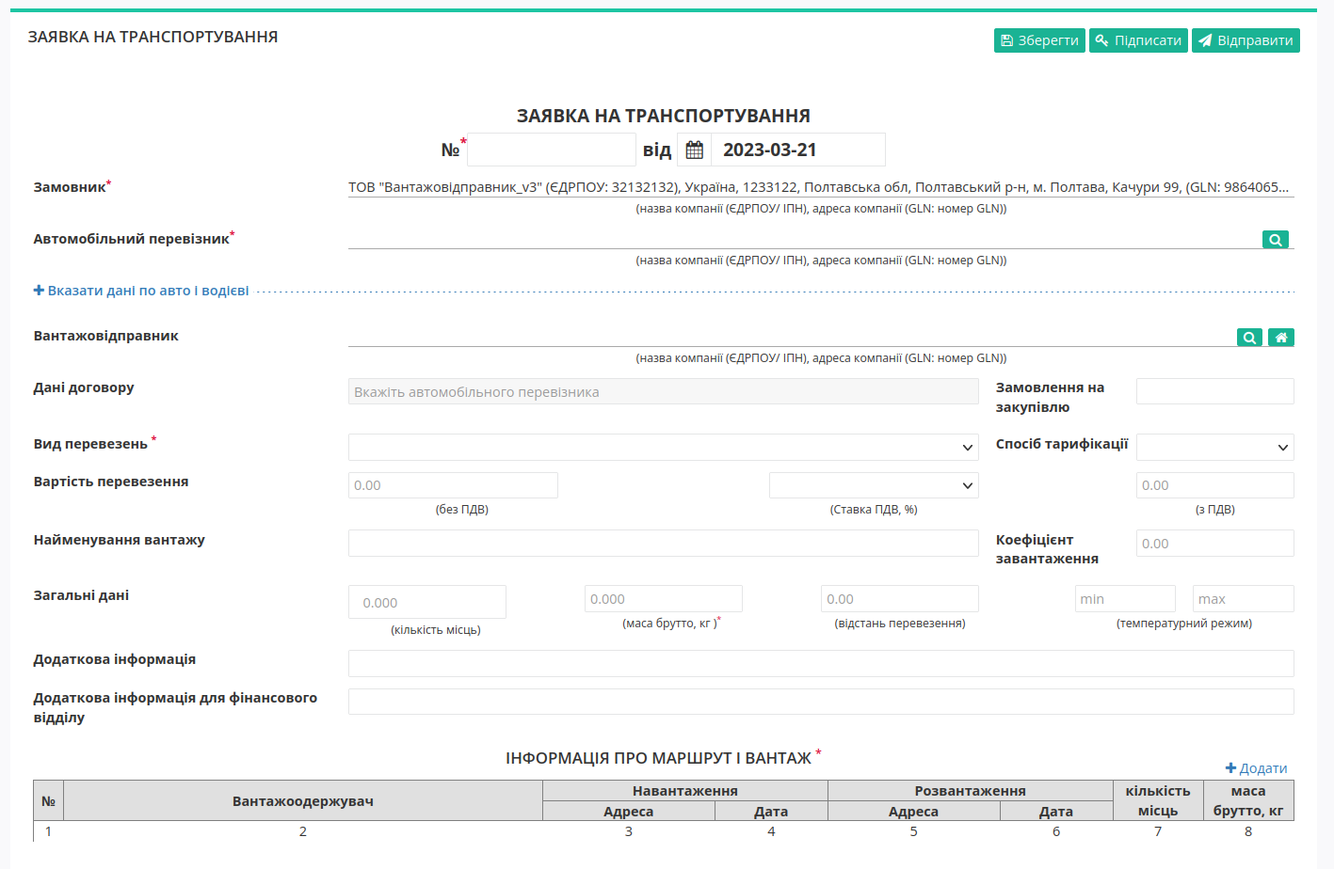
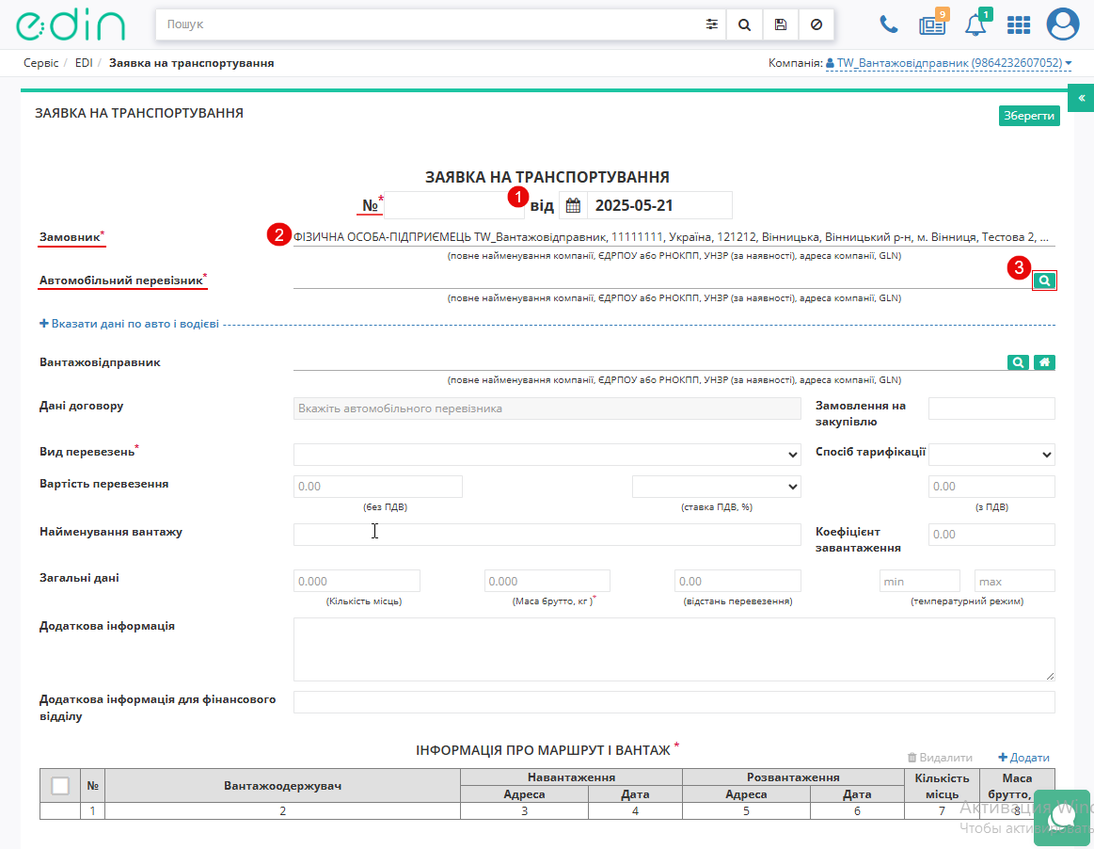
update_sertuficat_AS2

diff --git a/docs/ETTN_3_0/Create_Proposal_V2.rst b/docs/ETTN_3_0/Create_Proposal_V2.rst
@@ -1,0 +1,323 @@
+Створення та відправка "Заявки на транспортування" з "нуля" (ручне заповнення)
+###################################################################################################
+
+.. сюда закину немного картинок для текста + юзаєм спільні зображення
+
+.. |лупа| image:: /_constant/icons/magnifying_glass.png
+
+.. |будинок| image:: /_constant/icons/house.png
+
+.. |drag_dots| image:: /_constant/icons/drag_dots.png
+
+.. |trash| image:: /_constant/icons/trash.png
+
+.. |delete| image:: /_constant/icons/delete.png
+
+.. role:: red
+
+.. role:: green
+
+.. role:: orange
+
+.. role:: underline
+
+.. contents:: Зміст:
+   :depth: 3
+
+---------
+
+Ініціатором документообігу "Заявка на транспортування" -> "Підтвердженням заявки на транспортування" виступає користувач з роллю **"Замовник"** (при роботі з транспортними документами передбачені 4 основні ролі учасників документообігу: **"Замовник"**, **"Вантажовідправник"**, **"Перевізник"**, **"Вантажоотримувач"**). 
+Обмін документами здійснюється між **"Замовником"** та **"Перевізником"**:
+
+:green:`"Замовник" -> "Перевізник"`
+
+.. hint::
+   При роботі з "Заявкою на транспортування" можливо організувати:
+
+   1. Документообіг, в якому "Заявка на транспортування" пропонує перевезення між трьома компаніями-учасниками (1 **"Замовник"** - 1 **"Перевізник"** - 1 **"Вантажоотримувач"**) з пункту навантаження в пункт розвантаження (дві адреси).
+   2. Документообіг, в якому "Заявка на транспортування" пропонує перевезення одразу з кількома **"Вантажоотримувачами"** (1 **"Замовник"** - 1 **"Перевізник"** - N **"Вантажоотримувачів"**) з відповідною кількістю пунктів навантаження та розвантаження (кілька адрес).
+
+**1 Створення "Заявки на транспортування" Замовником**
+================================================================================================
+
+Для створення "Заявки на транспортування" в сервісі **"EDI Network"** **"Замовнику"** необхідно виконати наступні дії: 
+
+1. Натиснути на кнопку **"Створити"**.
+2. У модальному вікні **"Створити документ"** оберіть документ **"Заявка на транспортування"** (за необхідністю скористатись рядком пошуку).
+
+.. image:: pics_Create_Proposal/Create_Proposal_001.png
+   :align: center
+   :width: 80%
+
+Після чого відкриється порожня форма документа **"Заявка на транспортування"**, у якій заповніть поля:
+
+.. note::
+   Поля позначені - :red:`*` обов'язкові до заповнення
+
+- **"№"** - введіть номер документа (Покажчик 1);
+- **"Замовник"** - заповнюється автоматично даними учасника-ініціатора документообіга та недосупне для редагування (Покажчик 2); 
+- **"Автомобільний перевізник"** - натисніть на кнопку **"Пошук контрагента"** (|лупа|). Після цього відкриється модальне вікно **"Пошук перевізника"**,
+  у якому в рядка пошуку виконайте пошук контрагента за назвою компанії, GLN або ІПН. Для підтвердження вибору натисніть кнопку **"Вибрати"** (Покажчик 3). 
+  Для очищення поля натисніть на кнопку (|delete|) (кнопка з`являэться в полі при обраному значення) (Покажчик 4).
+
+.. image:: pics_Create_Proposal/Create_Proposal_002.png
+   :align: center
+   :width: 80%  
+
+.. image:: /ETTN_3_0/pics_Create_Proposal/Create_Proposal_003.png
+   :align: center
+   :width: 80%  
+
+Вказати дані по авто і водієві(за замовчуванням блок згорнутий)
+- **"Автомобіль"** - введіть латиницею мінімум 4 символи реєстраційного номеру для пошуку з особистого довідника. Або 8 символів для пошуку у відкритих джерелах. 
+
+
+.. note::
+
+
+- **"Вантажовідправник"** - поле заповнюється 
+
+
+
+
+.. початок блоку для Proposal_for_Proposal_from
+
+
+
+Заповнити дані  (обов'язково) та  (опціонально) можливо за допомогою кнопки **"Пошук контрагента"** (|лупа|) або ж за допомогою кнопки **"Вказати себе"** (|будинок|):
+
+.. image:: /ETTN_3_0/pics_Create_Proposal/Create_Proposal_003.png
+   :align: center
+
+Для пошуку контрагента в модальному вікні потрібно ввести назву компанії, :
+
+.. image:: /ETTN_3_0/pics_Create_Proposal/Create_Proposal_004.png
+   :align: center
+
+-------------------------------
+
+Є можливість **"Вказати дані по авто і водієві"**, якщо відомо хто буде здійснювати поставку (за замовчуванням блок згорнутий):
+
+.. image:: /ETTN_3_0/pics_Create_Proposal/Create_Proposal_005.png
+   :align: center
+
+Для автомобілів та причепів реалізований Ваш особистий довідник, що автоматично формується при додаванні нового транспортного засобу (кнопка **"+Новий транспортний засіб"**). При додаванні нового транспортного засобу в модальному вікні потрібно заповнити "Реєстраційний номер", "Марка", "Модель", "Тип" (також при заповненні "Довжина" / "Ширина" / "Висота" / "Загальна вага без вантажу" вся група стає теж обов'язковою до заповнення):
+
+.. image:: /ETTN_3_0/pics_Create_Proposal/Create_Proposal_034.png
+   :align: center
+
+.. hint::
+   Для раніше введеного реєстрайійного номеру (лише латинниця), наприклад, **AA0001AA** користувач може скористатись пошуком з довідника (min 4 символи), наприклад, ``AA00, 0001, 01AA, ...``:
+
+   .. image:: /ETTN_3_0/pics_Create_Proposal/Create_Proposal_035.png
+      :align: center
+
+   Також через наш пошук можливо за повним збігом (8 символів) знайти транспортний засіб у відкритих джерелах:
+
+   .. image:: /ETTN_3_0/pics_Create_ETTN/Create_ETTN_075.png
+      :align: center
+
+   **Примітка:** запис про зміни даних транспортного засобу вносяться в довідник лише при відправці документа!
+
+Після додавання чи вибору транспортного засобу з'являються кнопки:
+
+* **"Обрати"** - вибір іншого транспортного засобу;
+* **"Змінити"** - редагування даних обраного транспортного засобу (редагування довідника);
+* **"Очистити"** - видалити введені в рядок дані.
+
+.. image:: /ETTN_3_0/pics_Create_Proposal/Create_Proposal_036.png
+   :align: center
+
+.. note::
+   Незважаючи на те, що поля причіпа/напівпричіпа є опціональним, при їх наявності такі дані є обов'язковими до заповнення! 
+
+Принцип заповнення причіпа/напівпричіпа теж реалізований через довідник (аналогічно додаванню даних про автомобіль): 
+
+.. image:: /ETTN_3_0/pics_Create_Proposal/Create_Proposal_037.png
+   :align: center
+
+По кожному вказаному транспортному засобу є можливість зазначити температурний режим (ми рекомендуємо заповнювати поля температурного режиму для більш точної інформації по умовам перевезення в документі та кращого порозуміння з Вашими контрагентами):
+
+.. image:: /ETTN_3_0/pics_Create_Proposal/Create_Proposal_010.png
+   :align: center
+
+Дані **"Водія"** можливо обрати за допомогою кнопки **"Пошук контрагента"** (|лупа|) за ПІБ / ІПН / даними водійського посвідчення:
+
+.. image:: /ETTN_3_0/pics_Create_Proposal/Create_Proposal_011.png
+   :align: center
+
+.. note::
+   За потреби можливо **"Очистити дані по авто і водієві"** за допомогою відповідної кнопки - ця дія зготає блок з полями:
+
+   .. image:: /ETTN_3_0/pics_Create_Proposal/Create_Proposal_012.png
+      :align: center
+
+---------------------------------
+
+Якщо з обраним контрагентом вже був заключений договір (є **договір поставки** в `"Довіднику для Договорів" <https://wiki.edin.ua/uk/latest/general_2_0/Directories.html#gln-contracts>`__ в **Довідниках**), то поле "Дані договору" заповнюється автоматично в якості даних номера/дати договору, на підставі якого створюється даний документ. Якщо договорів з обраним контрагентом кілька, то можливо обрати договір зі списку або створити **"+Новий договір"** прямо в цьому документі:
+
+.. image:: /ETTN_3_0/pics_Create_Proposal/Create_Proposal_013.png
+   :align: center
+
+Завжди можливо **"Обрати"** новий договір:
+
+.. image:: /ETTN_3_0/pics_Create_Proposal/Create_Proposal_014.png
+   :align: center
+
+.. поки не реалізовано - взято з v2
+   .. attention::
+      При створенні документа шляхом `клонування <https://wiki.edin.ua/uk/latest/ETTN_2_0/Work_with_ETTN.html#doc-clone>`__ поле "Дані договору" заповнюється автоматично лише за наявності цього договору в `"Довіднику для Договорів" <https://wiki.edin.ua/uk/latest/general_2_0/Directories.html#gln-contracts>`__ в **Довідниках**.
+
+Далі потрібно обрати з випадаючого списку **"Вид перевезень"**:
+
+.. image:: /ETTN_3_0/pics_Create_Proposal/Create_Proposal_015.png
+   :align: center
+
+В залежності від обраного значення поля **"Спосіб тарифікації"** змінюється набір обов'язкових до заповненння полів:
+
+* **без способу тарифікації** (порожнє поле) - в загальних даних вантажу обов'язково заповнюється "маса брутто, кг": 
+
+.. image:: /ETTN_3_0/pics_Create_Proposal/Create_Proposal_025.png
+   :align: center
+
+* "Спосіб тарифікації" = **за кілометаж** - в загальних даних вантажу обов'язково заповнюється "маса брутто, кг" та "відстань перевезення": 
+
+.. image:: /ETTN_3_0/pics_Create_Proposal/Create_Proposal_026.png
+   :align: center
+
+* "Спосіб тарифікації" = **фіксована вартість** - в загальних даних вантажу обов'язково заповнюється "маса брутто, кг", вартість перевезення "без ПДВ" (вартість перевезення "з ПДВ" розраховується автоматично, якщо вказати ставку ПДВ):
+
+.. image:: /ETTN_3_0/pics_Create_Proposal/Create_Proposal_027.png
+   :align: center
+
+* "Спосіб тарифікації" = **за тоннаж** - в загальних даних вантажу обов'язково заповнюється "маса брутто, кг":
+
+.. image:: /ETTN_3_0/pics_Create_Proposal/Create_Proposal_028.png
+   :align: center
+
+.. кінець блоку для Proposal_for_Proposal_from
+
+.. _customer-table:
+
+**1.1 Заповнення табличної частини**
+---------------------------------------
+
+Для заповнення табличної частини документа потрібно натиснути на кнопку **"+Додати"**, після чого відкриється модальне вікно "Інформація про маршрут і вантаж" (обов'язкові до заповнення поля позначені червоною зірочкою :red:`*` ):
+
+.. image:: /ETTN_3_0/pics_Create_Proposal/Create_Proposal_016.png
+   :align: center
+
+.. початок блоку для Proposal_for_Proposal_from2
+
+Вікно розділено на блоки з даними про маршрут (Навантаження і Розвантаження) та блок з інформацією про вантаж. Для блоків Навантаження та Розвантаження дані "Адрес" необхідно обрати з випадаючого списку, користуючись пошуком (для Навантаження значення підтягуються з довідника **"Вантажовідправника"**, а для Розвантаження - **"Вантажоодержувача"**):
+
+.. image:: /ETTN_3_0/pics_Create_Proposal/Create_Proposal_017.png
+   :align: center
+
+За потреби можливо додати дату та час **"Обравши"** значення кінцевих термінів, в рамках яких потрібно здійснити доставку вантажу:
+
+.. image:: /ETTN_3_0/pics_Create_Proposal/Create_Proposal_018.png
+   :align: center
+
+Дані відповідальних осіб **"Вантажовідправника"** / **"Вантажоодержувача"** можливо обрати з віртуального довідника чи видалити зі списку за допомогою |trash| (присутній пошук):
+
+.. image:: /ETTN_3_0/pics_Create_Proposal/Create_Proposal_019.png
+   :align: center
+
+Довідник автоматично наповнюється при додаванні нового відповідального (кнопка **"+Додати особу"**). При додаванні нового відповідального в модальному вікні потрібно заповнити обов'язкові контактні дані (обов'язкові поля позначені червоною зірочкою :red:`*`):
+
+.. image:: /ETTN_3_0/pics_Create_Proposal/Create_Proposal_020.gif
+   :align: center
+
+Редагувати дані раніше введених осіб можливо за допомогою кнопки **"Змінити"**:
+
+.. image:: /ETTN_3_0/pics_Create_Proposal/Create_Proposal_021.gif
+   :align: center
+
+Заповнене поле документа даними відповідальної особи можливо **"Очистити"** за потреби чи **"Обрати"** іншу особу. 
+
+Дані пункту **"Розвантаження"** заповнюються аналогічно після вибору **Вантажоодержувача** за допомогою пошуку за назвою компанії чи GLN:
+
+.. image:: /ETTN_3_0/pics_Create_Proposal/Create_Proposal_022.png
+   :align: center
+
+Для редагування інформації щодо вантажу необхідно навести курсор на рядок цього вантажу та натиснути **"Змінити"**, для видалення – **"Видалити"** (або масово відмітити галочками та **"Видалити"** кнопкою над таблицею):
+
+.. image:: /ETTN_3_0/pics_Create_Proposal/Create_Proposal_038.png
+   :align: center
+
+Перевізники, отримавши "Заявку на транспортування", орієнтуються на послідовність вказаних в ній маршрутів. До відправки документа можливо змінити послідовність маршрутів, перетягнувши позицію лівою кнопкою миші за |drag_dots|:
+
+.. image:: /ETTN_3_0/pics_Create_Proposal/Create_Proposal_039.gif
+   :align: center
+
+Для збереження "Заявки на транспортування" необхідно натиснути кнопку **"Зберегти"**, документ потрапить у папку **"Чернетки"**:
+
+.. image:: /ETTN_3_0/pics_Create_Proposal/Create_Proposal_040.png
+   :align: center
+
+Після того, як усі обов'язкові поля заповнені та збережені документ можливо **"Підписати"**:
+
+.. image:: /ETTN_3_0/pics_Create_Proposal/Create_Proposal_041.png
+   :align: center
+
+.. hint::
+   Також для даного документа доступні `масове підписання та масова відправка <https://wiki.edin.ua/uk/latest/general_2_0/massovi_operacii_EDIN_2.0.html#mass-sign-and-send>`__.
+
+.. _sign:
+
+**1.2 Підписання та відправка "Заявки на транспортування" Замовником**
+------------------------------------------------------------------------------
+
+.. include:: /_constant/atb_check/atb_check.rst
+   :start-after: .. початок блоку для ATB_check
+   :end-before: .. кінець блоку для ATB_check
+
+.. tabs::
+
+   .. tab:: Файловий ключ
+
+      .. include:: /_constant/signing/signing.rst
+         :start-after: .. початок блоку для Signing
+         :end-before: .. кінець блоку для Signing
+
+   .. tab:: Token
+
+      .. include:: /_constant/token_signing/token_signing.rst
+         :start-after: .. початок блоку для TokenSign
+         :end-before: .. кінець блоку для TokenSign
+
+   .. tab:: Гряда
+
+      .. include:: /_constant/gryada_signing/gryada_signing.rst
+         :start-after: .. початок блоку для GryadaSign
+         :end-before: .. кінець блоку для GryadaSign
+
+   .. tab:: Cloud
+
+      .. include:: /_constant/cloud_signing/cloud_signing.rst
+         :start-after: .. початок блоку для CloudSign
+         :end-before: .. кінець блоку для CloudSign
+
+Після підписання "Заявки на транспортування" окремим блоком відображається інформація про підписантів. Підписаний документ можливо **"Надіслати"**:
+
+.. image:: /ETTN_3_0/pics_Create_Proposal/Create_Proposal_042.png
+   :align: center
+
+.. кінець блоку для Proposal_for_Proposal_from2
+
+Після відправки документа контрагенту він відображається в журналі вихідних документів. Відправленій **"Замовником"** "Заявці на транспортування" присвоюється статус :orange:`"Очікує підписання перевізником"`:
+
+.. image:: pics_Create_Proposal/Create_Proposal_043.png
+   :align: center
+
+Відправлена "Заявка на транспортування" має наступний вигляд:
+
+.. image:: pics_Create_Proposal/Create_Proposal_044.png
+   :align: center
+
+В правій частині відображається блок з даними про `ланцюжок документів <https://wiki.edin.ua/uk/latest/_constant/chain/chain.html>`__. Інформація про нового підписанта відображається після натискання кнопки **"Переглянути підписи"**. У разі помилкової відправки документа можливо виконати **"Відкликання підпису"** поки отримувач не підписав документ (`детальніше про відкликання <https://wiki.edin.ua/uk/latest/ETTN_3_0/Proposal_Revoke.html>`__).
+
+---------------------------------
+
+.. include:: /_constant/kontakti.rst
